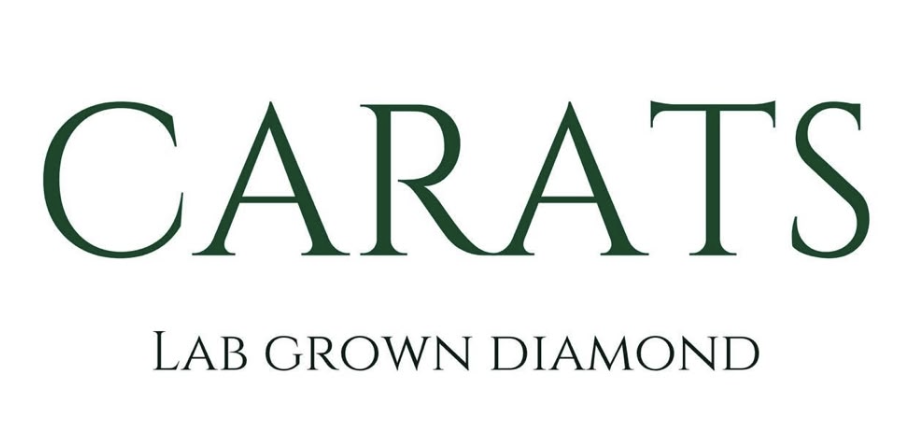
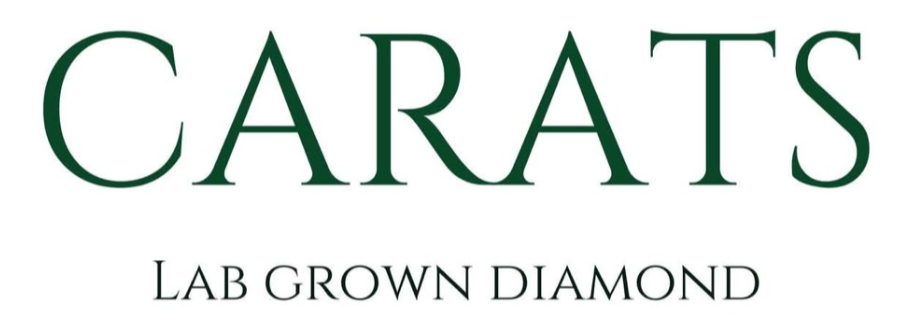
chore: update background image and social metadata

diff --git a/src/index.html b/src/index.html
@@ -18,11 +18,11 @@
   <meta property="og:url" content="https://www.caratsbd.com/" />
   <meta property="og:title" content="Carats — Lab Grown Diamond" />
   <meta property="og:description" content="Handcrafted fine jewellery & lab grown diamonds, crafted for eternity." />
-  <meta property="og:image" content="https://www.caratsbd.com/images/carats-bg.png" />
-  <meta property="og:image:secure_url" content="https://www.caratsbd.com/images/carats-bg.png" />
+  <meta property="og:image" content="https://www.caratsbd.com/images/carats-bg.png?v=2" />
+  <meta property="og:image:secure_url" content="https://www.caratsbd.com/images/carats-bg.png?v=2" />
   <meta property="og:image:type" content="image/png" />
   <meta property="og:image:width" content="920" />
-  <meta property="og:image:height" content="434" />
+  <meta property="og:image:height" content="330" />
   <meta property="og:image:alt" content="Carats — Lab Grown Diamond" />
 
   <!-- Twitter / X -->
@@ -30,7 +30,7 @@
   <meta name="twitter:url" content="https://www.caratsbd.com/" />
   <meta name="twitter:title" content="Carats — Lab Grown Diamond" />
   <meta name="twitter:description" content="Handcrafted fine jewellery & lab grown diamonds, crafted for eternity." />
-  <meta name="twitter:image" content="https://www.caratsbd.com/images/carats-bg.png" />
+  <meta name="twitter:image" content="https://www.caratsbd.com/images/carats-bg.png?v=2" />
 
   <!-- Theme -->
   <meta name="theme-color" content="#FAFAF7">
